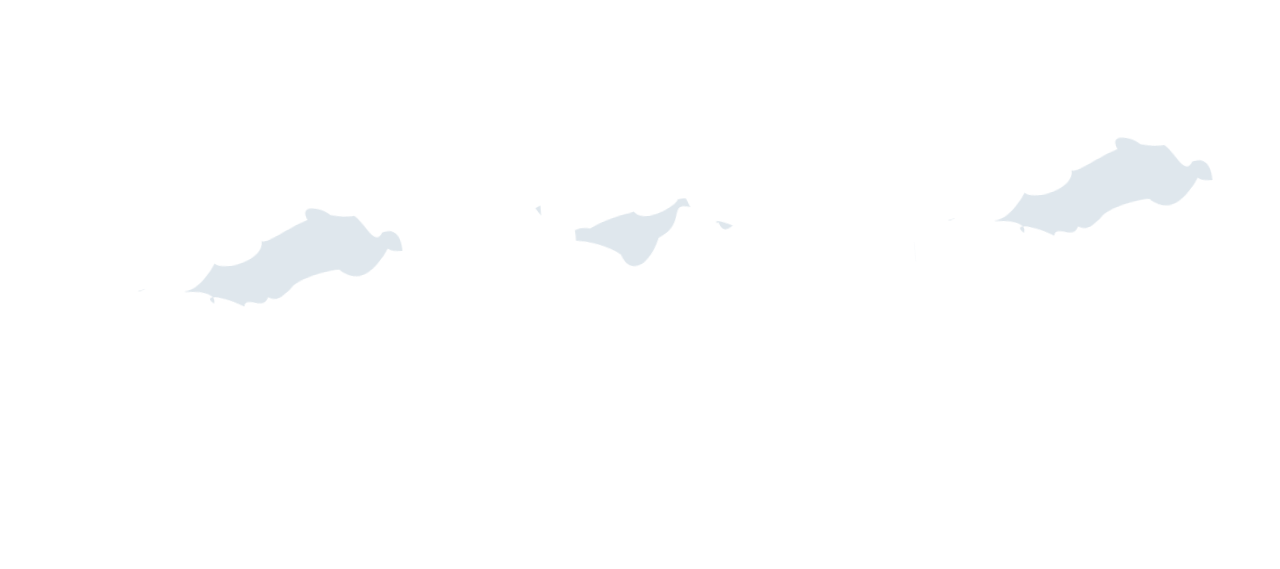
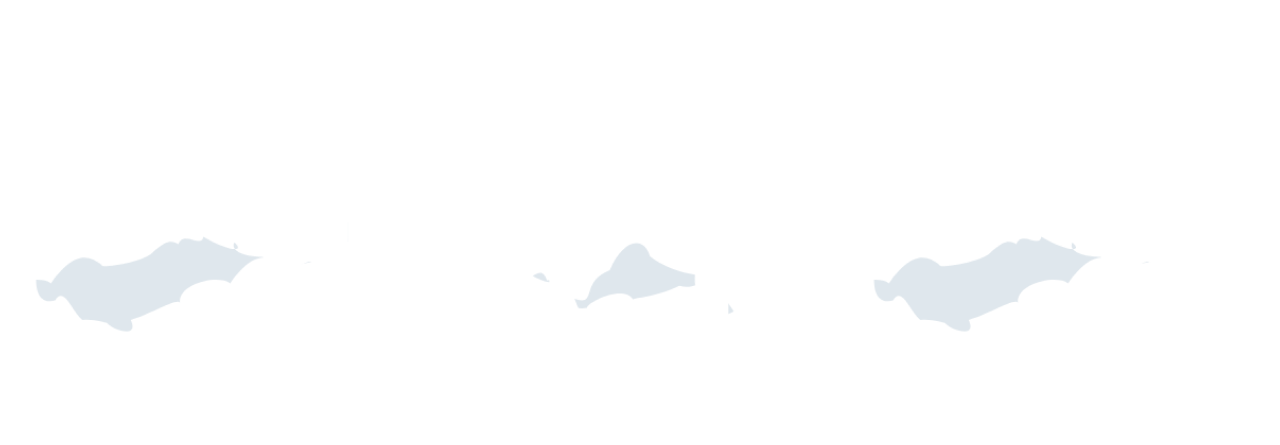
Add Reviews

diff --git a/public/css/style.css b/public/css/style.css
@@ -24,6 +24,9 @@
     outline: 1px solid #006989;
     color: #006989;
 }
+.bg-orange-light {
+    background-color: #ffd9c6;
+}
 .text-orange {
     color: #ff7f3e;
 }
@@ -128,12 +131,72 @@
     font-size: 12px;
 }
 /* package end */
-
-.parallax-top {
-    height: 7rem;
-    object-fit: cover;
-    object-position: bottom;
+/* parallax */
+.parallax-container {
+    height: 90vh;
+    overflow-y: hidden;
 }
+.parallax {
+    margin-top: -10rem;
+    z-index: -1;
+    object-fit: cover;
+}
+.parallax-top {
+    z-index: 1;
+}
+.parallax-bot {
+    z-index: 2;
+    position: absolute;
+    bottom: -10px;
+    left: 0;
+}
+.parallax-container .overlay {
+    position: absolute;
+    top: 0;
+    width: 100%;
+    height: 100%;
+    background-image: linear-gradient(
+        to bottom,
+        rgba(0, 0, 0, 0.7),
+        rgba(0, 0, 0, 0.2)
+    );
+    z-index: 0;
+}
+.parallax-container .content {
+    position: absolute;
+    top: 0;
+    z-index: 9;
+    height: 100%;
+    display: flex;
+    flex-direction: column;
+    justify-content: center;
+    width: 80%;
+}
+.parallax-title {
+    font-size: 2rem;
+    -webkit-text-stroke-width: 1px;
+    -webkit-text-stroke-color: white;
+    -webkit-text-fill-color: transparent;
+}
+.fs-12 {
+    font-size: 12px;
+}
+/* parallax end */
+/* gallery */
+.gallery-container {
+    height: 60vh;
+}
+.gallery {
+    height: 70%;
+}
+/* gallery end */
+
+/* article */
+.img-article {
+    height: 15rem;
+    object-fit: cover;
+}
+/* article end */
 @media screen and (min-width: 768px) {
     .offcanvas-body {
         width: 100%;
@@ -171,5 +234,37 @@
     .book-package {
         font-size: 16px;
     }
+
     /* package end */
+    /* parallax */
+    .parallax {
+        margin-top: -15rem;
+    }
+    .parallax-container {
+        height: 150vh;
+    }
+    .parallax-title {
+        font-size: 4rem;
+    }
+    .fs-12 {
+        font-size: 16px;
+    }
+    .parallax-container .overlay {
+        background-image: linear-gradient(
+            to right,
+            rgba(0, 0, 0, 0.7),
+            rgba(0, 0, 0, 0)
+        );
+    }
+    /* parallax end */
+}
+@media screen and (min-width: 1024px) {
+    .parallax {
+        margin-top: -18rem;
+    }
+}
+@media screen and (min-width: 1440px) {
+    .parallax {
+        margin-top: -25rem;
+    }
 }

diff --git a/resources/views/home.blade.php b/resources/views/home.blade.php
@@ -46,35 +46,35 @@
         <section class="container value text-center d-flex ">
             <div>
                 <h5 class="text-orange  fs-2 fw-semibold">Top Values For You</h5>
-                <p class="mb-3">Try Variety of Benefits when using our services</p>
+                <p class="mb-3 text-secondary">Try Variety of Benefits when using our services</p>
                 <div class="row mt-5">
                     <section class="col-md-3 ">
                         <div class="icon-container fs-2 rounded-circle mx-auto text-white m-0 p-0">
                             <i class="fa-regular fa-paper-plane"></i>
                         </div>
                         <h5 class="fw-bold text-orange my-2">Airport Pickup</h5>
-                        <small>Enjoy seamless and stress- transportation with our airport pickup service.</small>
+                        <small class="text-secondary">Enjoy seamless and stress- transportation with our airport pickup service.</small>
                     </section>
                     <section class="col-md-3 ">
                         <div class="icon-container fs-2 rounded-circle mx-auto text-white m-0 p-0">
                             <i class="fa-regular fa-calendar-check"></i>
                         </div>
                         <h5 class="fw-bold text-orange my-2">Easy Booking </h5>
-                        <small>Enjoy seamless and stress- transportation with our airport pickup service.</small>
+                        <small class="text-secondary">Enjoy seamless and stress- transportation with our airport pickup service.</small>
                     </section>
                     <section class="col-md-3 ">
                         <div class="icon-container fs-2 rounded-circle mx-auto text-white m-0 p-0">
                             <i class="fa-solid fa-star"></i>
                         </div>
                         <h5 class="fw-bold text-orange my-2">Best Tour Guide</h5>
-                        <small>Enjoy seamless and stress- transportation with our airport pickup service.</small>
+                        <small class="text-secondary">Enjoy seamless and stress- transportation with our airport pickup service.</small>
                     </section>
                     <section class="col-md-3 ">
                         <div class="icon-container fs-2 rounded-circle mx-auto text-white m-0 p-0">
                             <i class="fa-solid fa-face-grin-wink"></i>
                         </div>
                         <h5 class="fw-bold text-orange my-2">Happy Tour</h5>
-                        <small>Enjoy seamless and stress- transportation with our airport pickup service.</small>
+                        <small class="text-secondary">Enjoy seamless and stress- transportation with our airport pickup service.</small>
                     </section>
                 </div>
             </div>
@@ -106,8 +106,8 @@
             <section class="col-md-6 mt-3 mt-md-0">
                 <div>
                     <h5 class="text-orange  fs-2 fw-semibold d-none d-md-block">About Eva Bali Tour</h5>
-                    <p class="mb-3" style="letter-spacing: 1px">Experience the best of Bali with Great Bali Tours. From tranquil beaches to thrilling adventures, our expert team crafts personalized journeys that exceed expectations. Let us unlock the magic of Bali for you.</p>
-                    <p class="mb-3" style="letter-spacing: 1px">Immerse yourself in Bali's rich culture, where every temple tells a story and every dance embodies tradition. Our curated experiences offer unique insights into local customs, allowing you to connect deeply with the island's heritage. Whether it's participating in traditional ceremonies, learning Balinese cooking, or exploring vibrant markets, we invite you to discover the soul of Bali with us.</p>
+                    <p class="mb-3 text-secondary" style="letter-spacing: 1px">Experience the best of Bali with Great Bali Tours. From tranquil beaches to thrilling adventures, our expert team crafts personalized journeys that exceed expectations. Let us unlock the magic of Bali for you.</p>
+                    <p class="mb-3 text-secondary" style="letter-spacing: 1px">Immerse yourself in Bali's rich culture, where every temple tells a story and every dance embodies tradition. Our curated experiences offer unique insights into local customs, allowing you to connect deeply with the island's heritage. Whether it's participating in traditional ceremonies, learning Balinese cooking, or exploring vibrant markets, we invite you to discover the soul of Bali with us.</p>
                 </div>
 
             </section>
@@ -145,9 +145,9 @@
     {{-- destination end --}}
 
     {{-- package --}}
-    <div class="container packages position-relative">
+    <div class="container packages position-relative bg-white">
         <h1 class="text-center fw-semibold text-orange">Tour Packages</h1>
-        <p class="text-center"> Let us be your gateway to unforgettable adventures.</p>
+        <p class="text-center text-secondary"> Let us be your gateway to unforgettable adventures.</p>
         <div class="package swiper">
             <div class="swiper-wrapper">
                 @for ($i = 1;$i < 3;$i++)
@@ -156,6 +156,13 @@
                         <img src="{{asset('img/dest-'.$i.'.jpg')}}" class="card-img-top" alt="">
                         <div class="card-body d-flex flex-column justify-content-between">
                             <h4 class="fs-5 fw-semibold text-orange">Scooter Transport Tour</h4>
+                            <div>
+                                <ul class="text-secondary">
+                                    <li>Airport pickup</li>
+                                    <li>Photographer session</li>
+                                    <li>Ceremony purification group</li>
+                                </ul>
+                            </div>
                             <div>
                                 <p class="m-0" style="font-size: 12px">Start From</p>
                                 <div class="d-flex align-items-end justify-content-between">
@@ -172,8 +179,86 @@
         <div class="my-3 text-center">
             <a href="" class="btn btn-blue ">See More</a>
         </div>
-        <img src="{{asset('img/parallax-top.png')}}" class="w-100 parallax-top" alt="">
+
     </div>
     {{-- package end--}}
 
+    {{-- parallax  --}}
+    <div class="container-fluid px-0 bg-white parallax-container position-relative">
+        <img src="{{asset('img/parallax-top.png')}}" class="w-100 parallax-top container-fluid px-0 position-relative" alt="">
+        <img src="{{asset('img/parallax.png')}}" class="w-100 parallax h-100" alt="">
+        <img src="{{asset('img/parallax-bot.png')}}" class="w-100 parallax-bot" alt="">
+        <div class="content-container w-100 d-flex justify-content-center">
+            <div class="row content">
+                <div class="col-md-6 text-center text-md-start">
+                    <h1 class="fw-bold parallax-title">PLAN YOUR TRIP</h1>
+                    <p class="fw-light text-white fs-12" >Lorem ipsum, dolor sit amet consectetur adipisicing elit. Dolorum error rem voluptates et nostrum eos dolorem officia, voluptatibus cupiditate architecto harum dolores ea perferendis quisquam ad nam commodi at aut reiciendis voluptatem eum adipisci delectus tempore illum! A perferendis veritatis quae debitis aperiam dolor autem, nam, rerum illum beatae at et tenetur nostrum sint corporis? </p>
+                    <a href="" class="btn btn-orange">Book Now</a>
+                </div>
+            </div>
+
+        </div>
+        <div class="overlay"></div>
+
+    </div>
+    {{-- parallax end --}}
+
+    {{-- gallery --}}
+    <div class="container-fluid gallery-container px-0 pb-2 py-2">
+        <h1 class="text-center text-orange fw-semibold my-4">Our Gallery</h1>
+        <div class="swiper gallery">
+            <div class="swiper-wrapper ">
+                @for($i = 1; $i < 10; $i++)
+                <div class="swiper-slide p-0 m-0">
+                    <img src="{{asset('img/dest-1.jpg')}}" class="w-100 h-100" alt="" style="object-fit: cover">
+                </div>
+                @endfor
+            </div>
+        </div>
+    </div>
+    {{-- gallery end --}}
+
+    {{-- article --}}
+    <div class="container articles py-3">
+        <h1 class=" text-center text-orange fw-semibold">Let's See What's New</h1>
+        <p class="text-center text-secondary">Let's see the newest article here</p>
+        <div class="swiper article">
+            <div class="swiper-wrapper">
+                @for($i = 0; $i < 10; $i++)
+                <div class="swiper-slide">
+                    <a href="" class="nav-link">
+                        <img src="{{asset('img/dest-1.jpg')}}" class="w-100 img-article" alt="">
+                        <div>
+                            <h2 class="fw-semibold fs-5">{{Str::limit('Lorem ipsum dolor sit, amet consectetur adipisicing elit. Ipsam, consectetur.',50)}}</h2>
+                            <p>{{Str::limit('Lorem, ipsum dolor sit amet consectetur adipisicing elit. Assumenda deleniti fuga fugit similique eveniet expedita neque distinctio, quam in natus iure ut molestias!',50)}}</p>
+                        </div>
+                        <div class="text-end">
+                            <a href="" class="text-decoration-none text-orange">Read More</a>
+                        </div>
+                    </a>
+                </div>
+                @endfor
+            </div>
+        </div>
+    </div>
+    {{-- article end --}}
+
+    {{-- testi --}}
+    <div class="container testimoni-container my-4">
+        <h1 class="text-center fw-semibold text-orange">Our Happy Customer Reviews</h1>
+        <div class="swiper testimoni my-4">
+            <div class="swiper-wrapper">
+                @for($i = 0; $i < 10; $i++)
+                <div class="swiper-slide text-center bg-orange-light px-5 py-3">
+                    <img src="{{{asset('img/colon.png')}}}" class="my-3" alt="">
+                    <p class="text-start">" Lorem ipsum dolor sit amet consectetur adipisicing elit. Soluta quis tenetur dolorem, unde obcaecati doloremque fuga, iusto possimus, nemo rem blanditiis magnam illum adipisci voluptatibus cupiditate numquam explicabo ratione voluptas? Sapiente blanditiis ex, delectus quod, alias unde beatae similique saepe, aperiam autem incidunt! Delectus nemo nulla at blanditiis debitis ex reprehenderit repellendus rem incidunt unde eaque "</p>
+                    <h5 class="fw-semibold mb-0">Sarah Nambayong</h5>
+                    <p class="text-secondary">Solo Traveler</p>
+                </div>
+                @endfor
+
+            </div>
+        </div>
+    </div>
+    {{-- testi end --}}
 @endsection

diff --git a/resources/views/layouts/main.blade.php b/resources/views/layouts/main.blade.php
@@ -47,6 +47,59 @@
                 }
             }
         })
+        const gallery = new Swiper('.gallery',{
+            slidesPerView: 3,
+            spaceBetween: 0,
+            loop: true,
+            autoplay: {
+                delay: 2500,
+                disableOnInteraction: false,
+            },
+            breakpoints: {
+                640: {
+                    slidesPerView: 4,
+                    spaceBetween: 20
+                },
+                768: {
+                    slidesPerView: 5,
+                    spaceBetween: 20
+                },
+                1024: {
+                    slidesPerView: 6,
+                    spaceBetween: 20
+                }
+            }
+        })
+        const article = new Swiper('.article',{
+            slidesPerView: 1,
+            breakpoints: {
+                640: {
+                    slidesPerView: 2,
+                    spaceBetween: 20
+                },
+                768: {
+                    slidesPerView: 3,
+                    spaceBetween: 20
+                },
+                1024: {
+                    slidesPerView: 4,
+                    spaceBetween: 20
+                }
+            }
+        })
+        const testimoni = new Swiper('.testimoni',{
+            slidesPerView: 1,
+            breakpoints: {
+                640: {
+                    slidesPerView: 2,
+                    spaceBetween: 20
+                },
+                768: {
+                    slidesPerView: 3,
+                    spaceBetween: 20
+                },
+            }
+        })
     </script>
 </body>
 </html>
